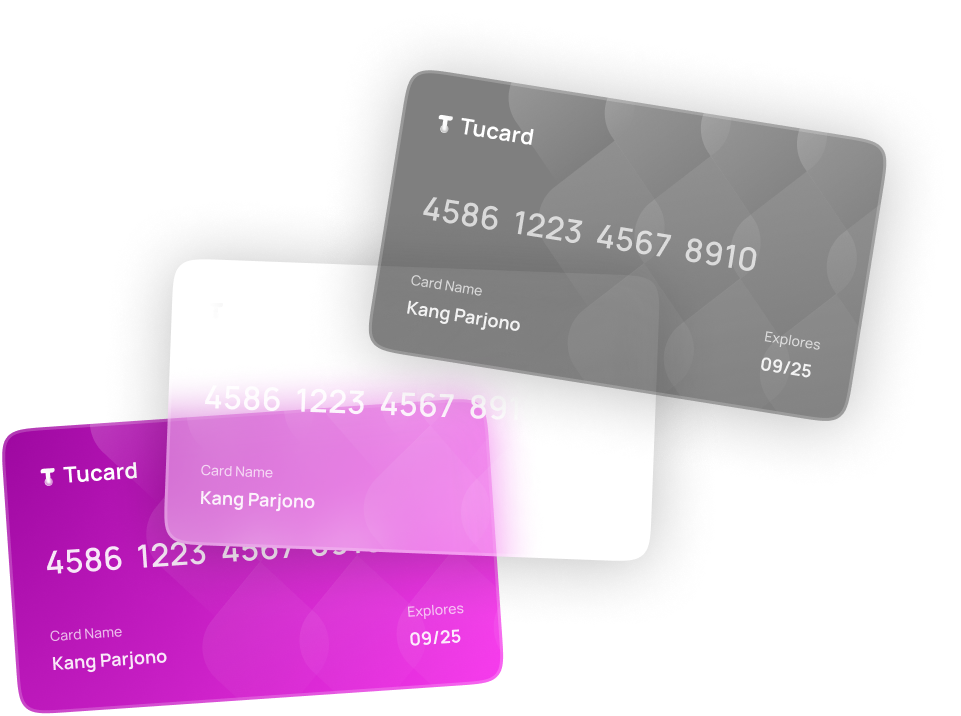
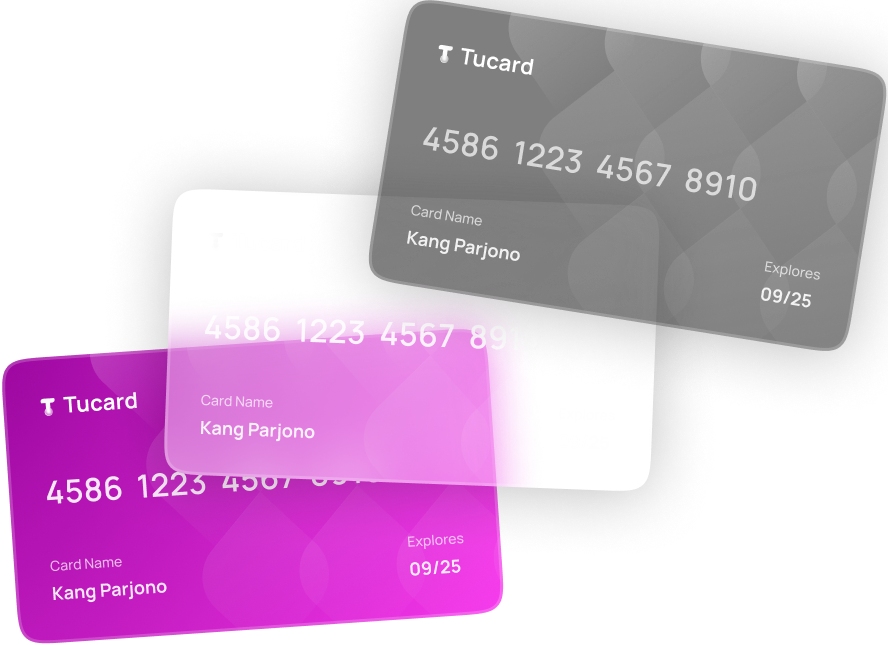
Get-Started Section completed

diff --git a/index.html b/index.html
@@ -52,7 +52,9 @@
     <!-- get started section -->
   
     <section class="get-started">
-      
+      <div class="backcards">
+        <img src="./Assets/Photos/backCards.png" alt="backCards">
+      </div>
       <div class="Big-div">
         <!-- simplfy section -->
         <div class="simplify">Simplify All Transactions in <span>One Card</span></div>
@@ -83,6 +85,12 @@
           <div class="years">Years Experience</div>
         </div>
       </div>
+      
+      <div class="frontcards">
+        <img src="./Assets/Photos/frontCards - Copy.png" alt="frontCards">
+      </div>
     </section>
+
+    
 </body>
 </html>

diff --git a/style.css b/style.css
@@ -91,6 +91,7 @@ padding-top: 20px; */
 margin-left: 62px;
 background: transparent;
 padding-top: 10px;
+position: absolute;
 /* background:url(./Assets/Photos/frontCards.png); */
 }
 
@@ -215,4 +216,21 @@ margin-left: 35px;
 height: 62px;
 background: transparent;
 }
+.backcards img{
+  position: absolute;
+  background: transparent;
+  width: 760px;
+  margin-left: 420px;
+  margin-top: 20px;
+  
+}
+.frontcards img{
+  position: absolute;
+  background: transparent;
+  width: 600px;
+  right: 0;
+  margin-top: 88px;
+}
+
+
 
